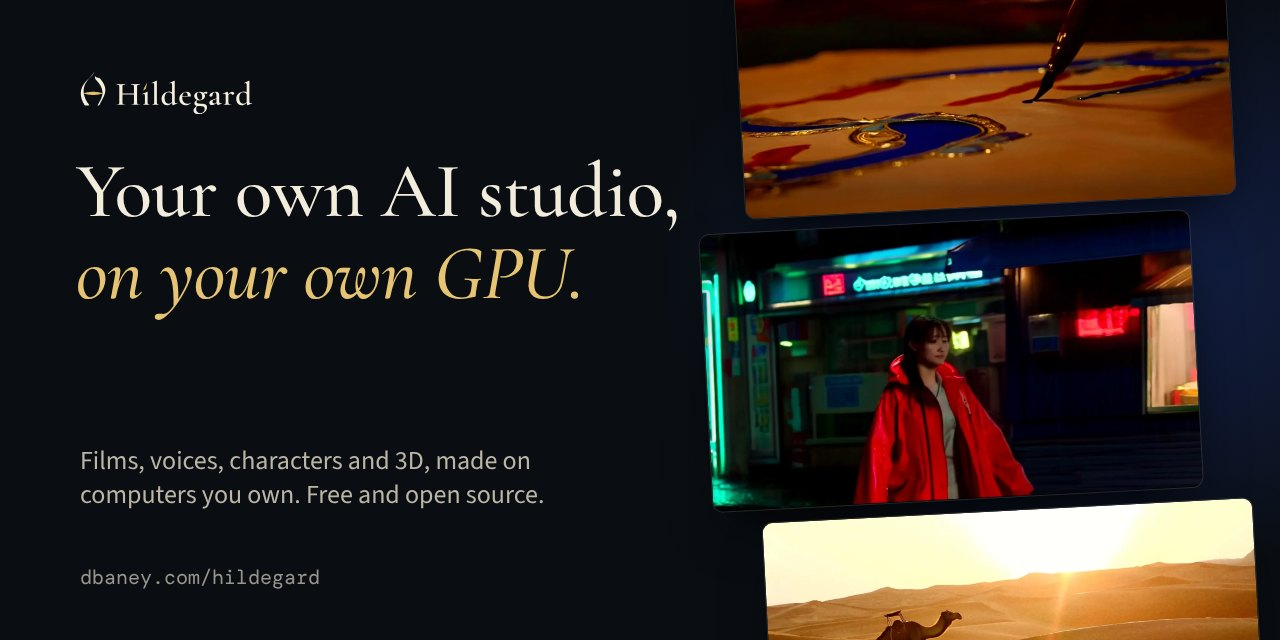
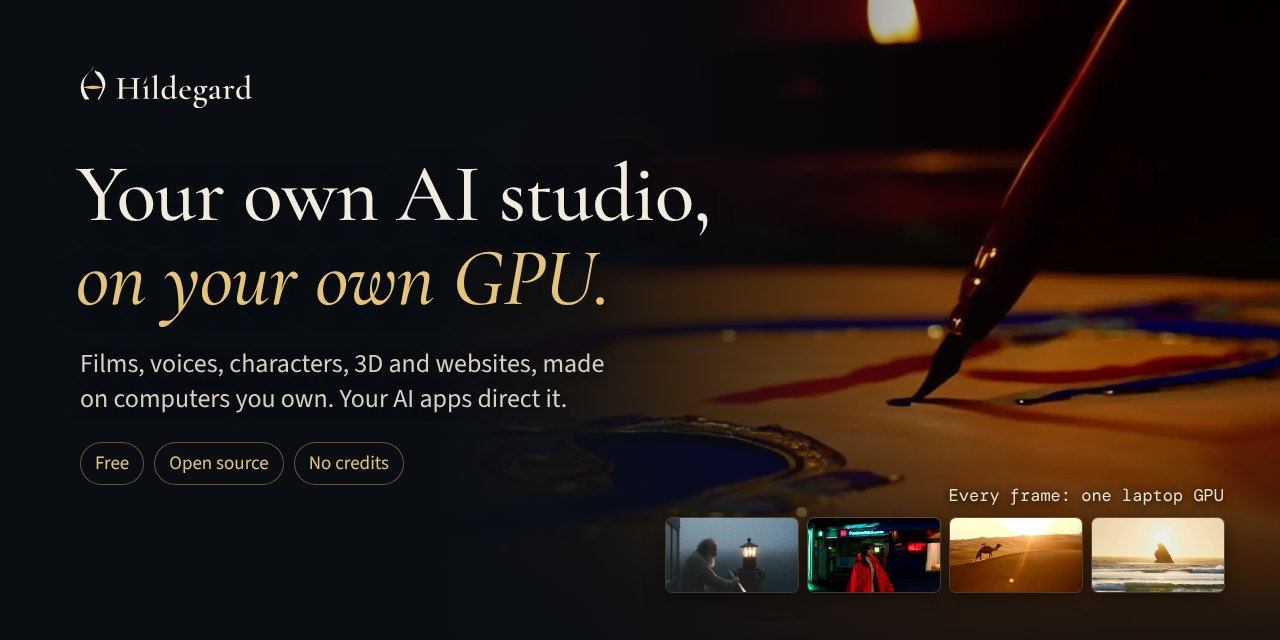
Link preview: a real take full bleed, four more in a strip, clear of X's name overlay
The card now leads with a real frame filling the right half and fading under the headline, says what the studio
makes (websites too), and keeps the bottom-left corner free, where X lays the site's name over a card. The image
URL carries a version so X and others fetch the new card instead of a cached one.

Claude-Session: https://claude.ai/code/session_01GoN4ZHb2KCBv9tjY19NjeE

diff --git a/site/index.html b/site/index.html
@@ -18,17 +18,18 @@
 <meta property="og:site_name" content="Hildegard">
 <meta property="og:locale" content="en_US">
 <meta property="og:title" content="Hildegard: your own AI studio, on your own GPU">
-<meta property="og:description" content="Films, voices, characters and 3D, made on computers you own. Nothing leaves them, and nothing costs money per shot. Free and open source.">
+<meta property="og:description" content="Films, voices, characters, 3D and websites, made on computers you own. Nothing leaves them, and nothing costs money per shot. Free and open source.">
 <meta property="og:url" content="https://dbaney.com/hildegard/">
-<meta property="og:image" content="https://dbaney.com/hildegard/img/og.jpg">
+<meta property="og:image" content="https://dbaney.com/hildegard/img/og.jpg?v=3">
+<meta property="og:image:type" content="image/jpeg">
 <meta property="og:image:width" content="1200">
 <meta property="og:image:height" content="630">
-<meta property="og:image:alt" content="Three frames rendered with Hildegard beside the words: your own AI studio, on your own GPU.">
+<meta property="og:image:alt" content="A real frame from Hildegard, a quill painting an illuminated capital, beside the words: your own AI studio, on your own GPU. Below, four more frames, all rendered on one laptop GPU.">
 <meta name="twitter:card" content="summary_large_image">
 <meta name="twitter:title" content="Hildegard: your own AI studio, on your own GPU">
-<meta name="twitter:description" content="Films, voices, characters and 3D, made on computers you own. Free and open source.">
-<meta name="twitter:image" content="https://dbaney.com/hildegard/img/og.jpg">
-<meta name="twitter:image:alt" content="Three frames rendered with Hildegard beside the words: your own AI studio, on your own GPU.">
+<meta name="twitter:description" content="Films, voices, characters, 3D and websites, made on computers you own. Free and open source.">
+<meta name="twitter:image" content="https://dbaney.com/hildegard/img/og.jpg?v=3">
+<meta name="twitter:image:alt" content="A real frame from Hildegard, a quill painting an illuminated capital, beside the words: your own AI studio, on your own GPU. Below, four more frames, all rendered on one laptop GPU.">
 <link rel="icon" href="favicon.svg" type="image/svg+xml">
 <link rel="apple-touch-icon" href="img/apple-touch-icon.png">
 <link rel="preload" href="fonts/CormorantGaramond-500.woff2" as="font" type="font/woff2" crossorigin>
